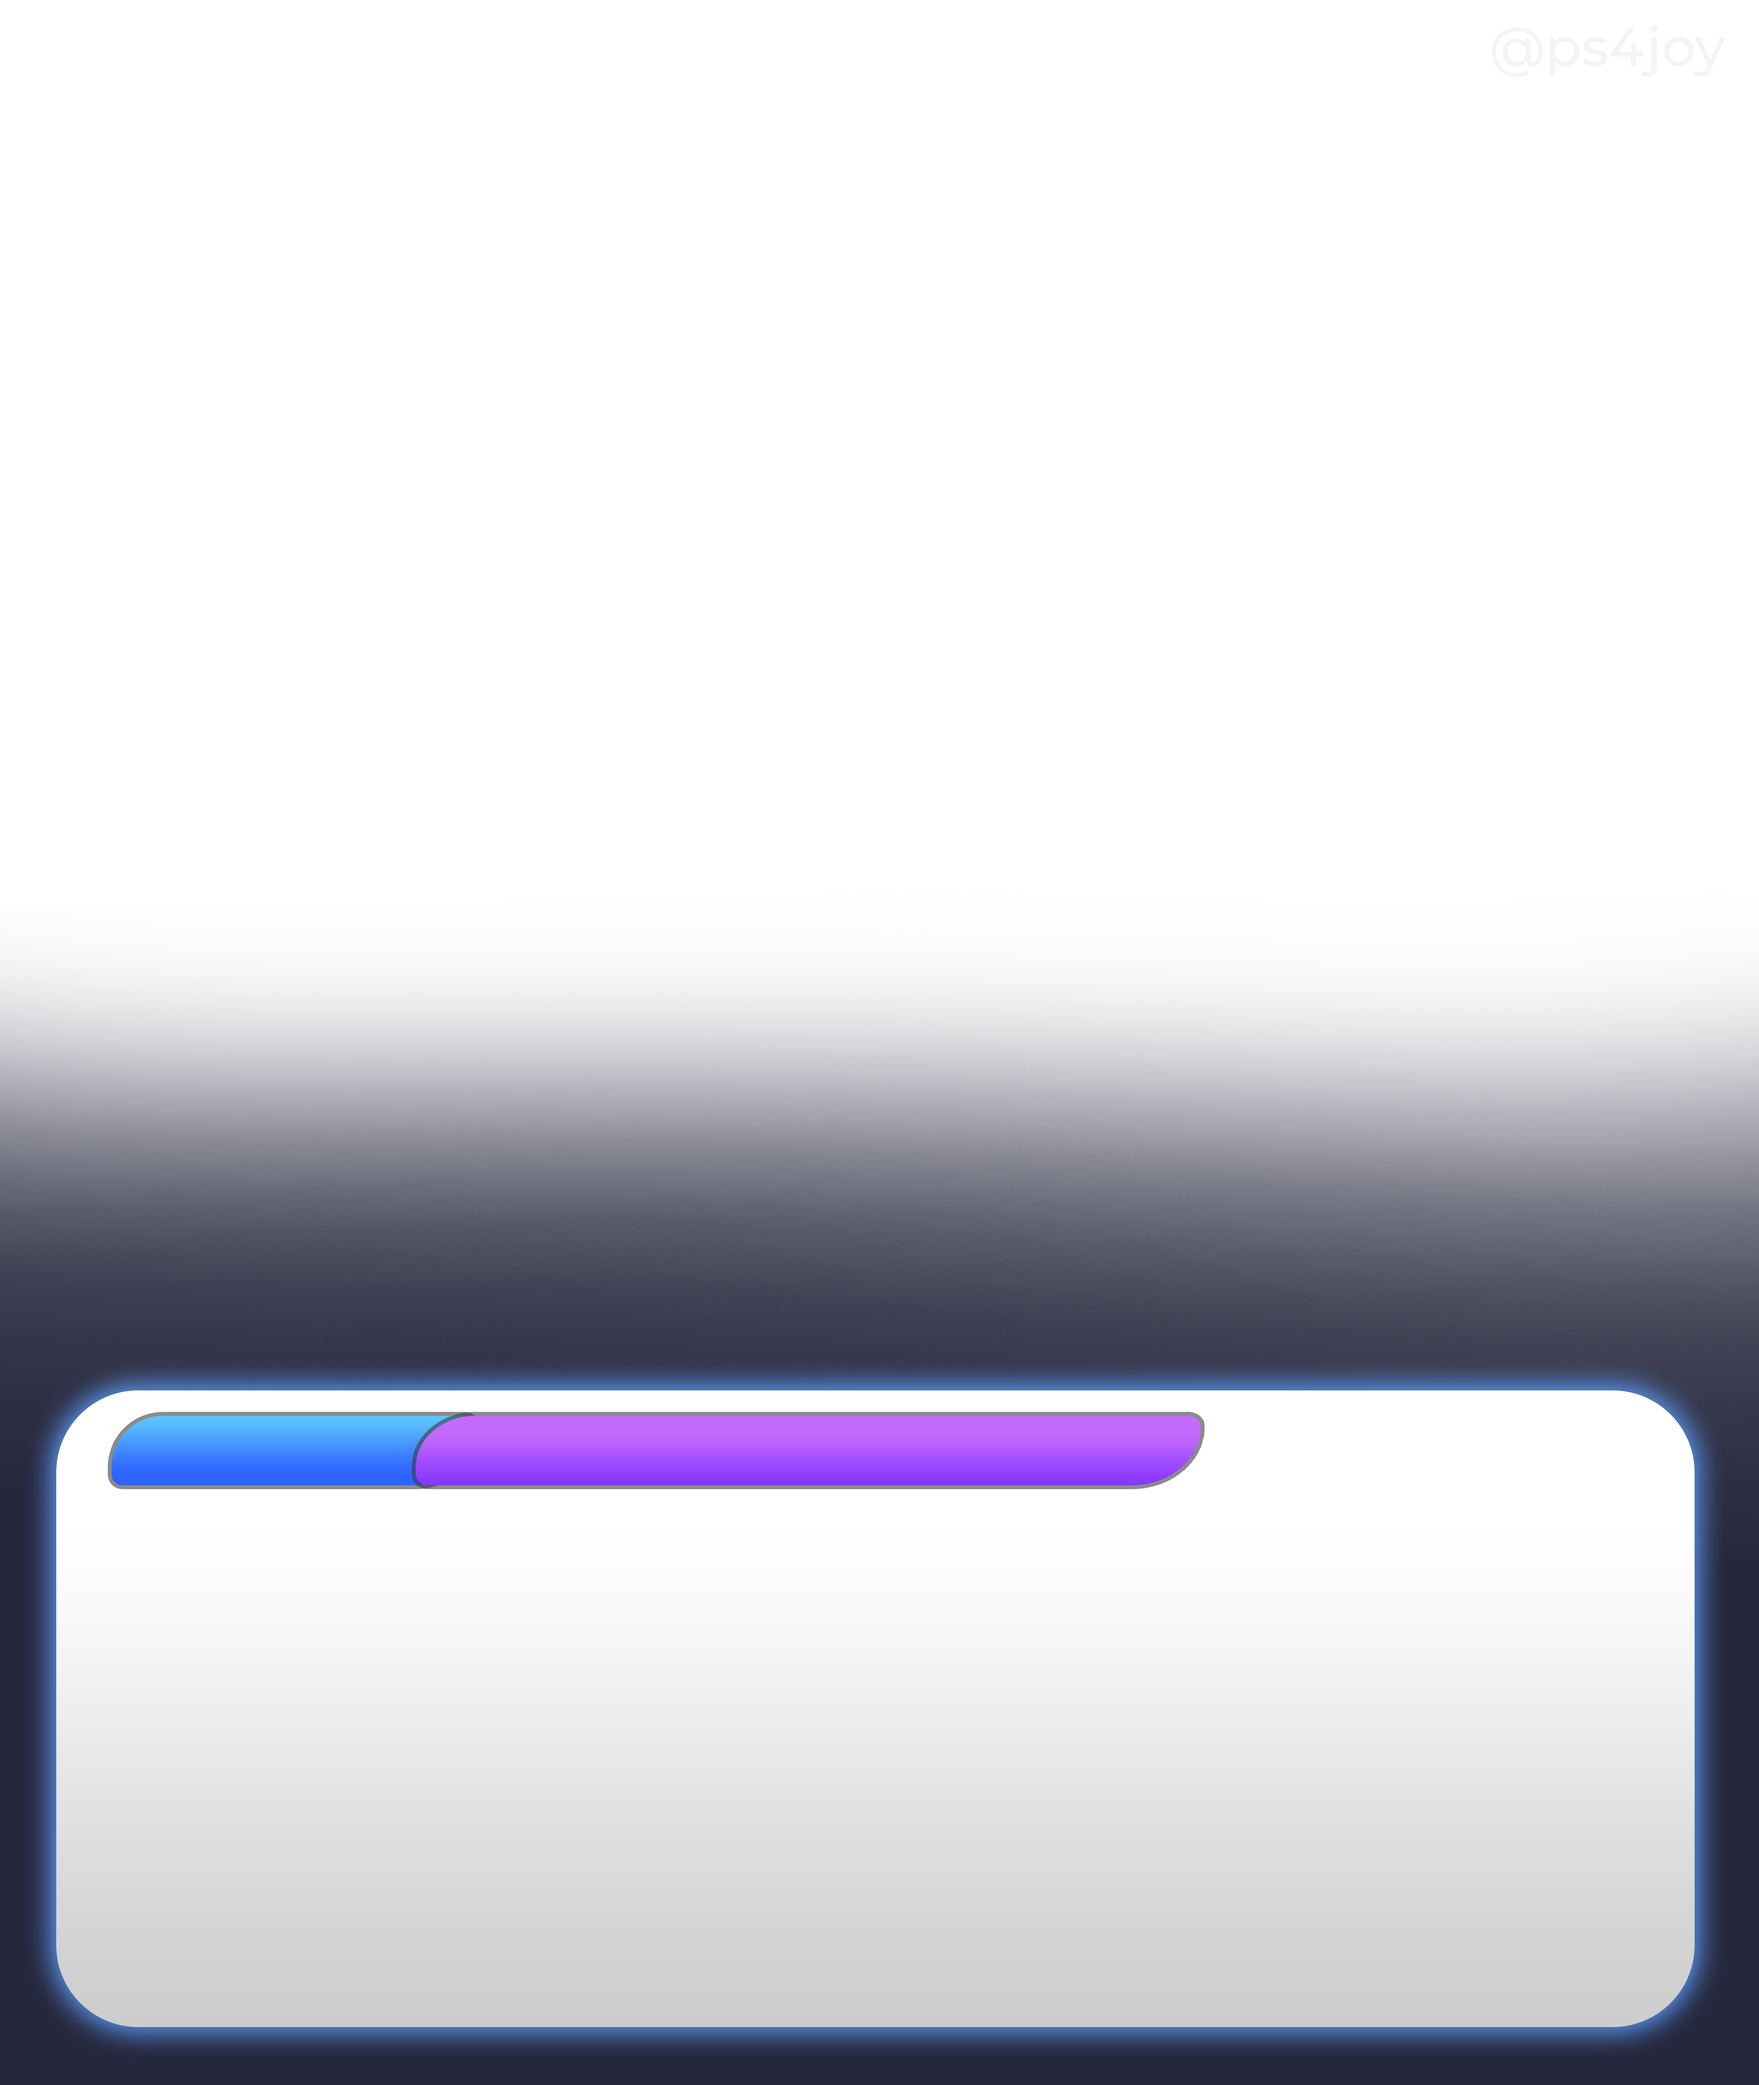
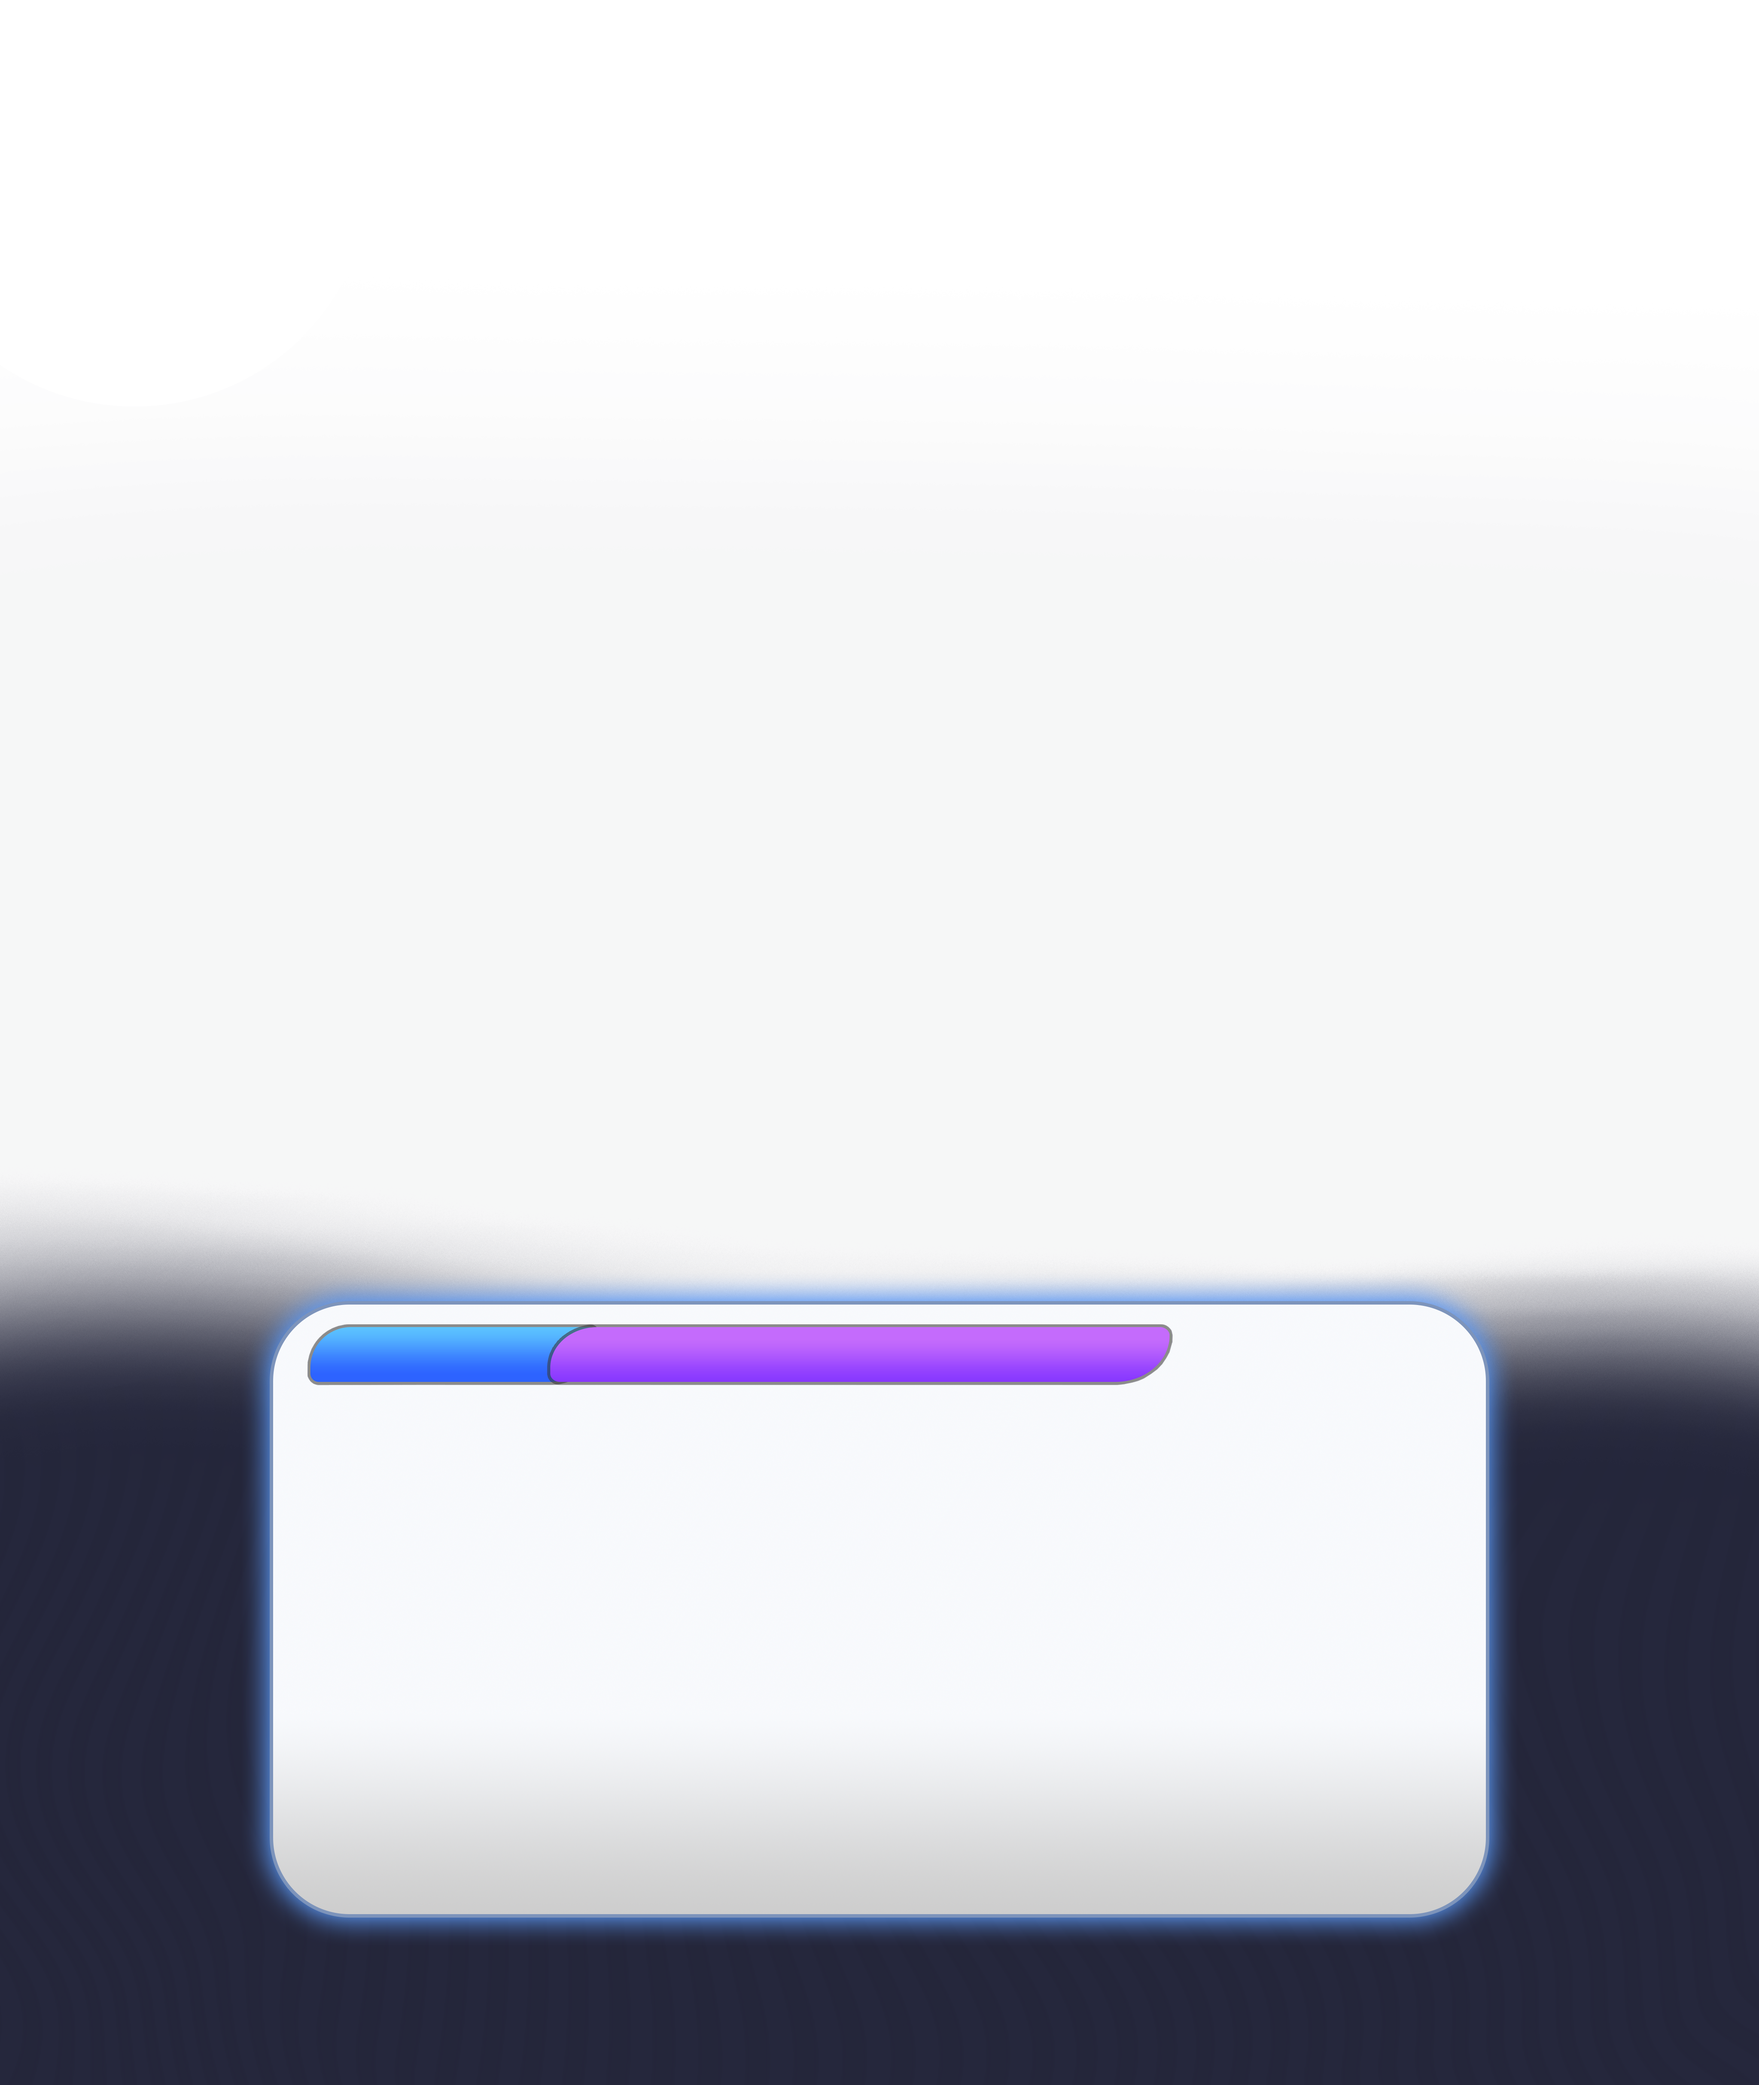
added new template & now the position of a discount square changes dinamically

diff --git a/gui.py b/gui.py
@@ -100,17 +100,26 @@ class Application(tk.Tk):
         discount = self.discount.get()
         discount_end_date = self.discount_end_date.get()
 
+        discount_position_square = [3000, 3620]
+        discount_position_text = [3020, 3810]
+
         # Создаем экземпляр ImageEditor и добавляем текст на изображение
         editor = ImageEditor("newtemplate.png")
 
-        editor.add_text(game_name, (240, 3450), "fonts/Montserrat-Regular.ttf", 250, "black")
+        editor.add_text(game_name, (700, 3250), "fonts/Montserrat-Regular.ttf", 150, "black")
 
         # Используем функцию add_gradient_text для добавления цены с градиентом
-        editor.add_gradient_text(game_price, (230, 3780), "fonts/Montserrat-Bold.ttf", 750)
+        editor.add_gradient_text(game_price, (705, 3600), "fonts/Montserrat-Bold.ttf", 600)
 
-        editor.add_text(russian_language, (1020, 3310), "fonts/Montserrat-Bold.ttf", 110, "white")
-        editor.add_text(platforms, (330, 3300), "fonts/Montserrat-Bold.ttf", 130, "white")
-        editor.add_text(game_version, (240, 3750), "fonts/Montserrat-Bold.ttf", 130, "gray")
+        editor.add_text(russian_language, (1320, 3100), "fonts/Montserrat-Bold.ttf", 85, "white")
+        editor.add_text(platforms, (750, 3090), "fonts/Montserrat-Bold.ttf", 110, "white")
+        editor.add_text(game_version, (705, 3430), "fonts/Montserrat-Bold.ttf", 130, "gray")
+
+        if len(game_price) >= 6:
+            pass
+        else:
+            discount_position_square[0] -= 250
+            discount_position_text[0] -= 250
 
         # Определяем регион игры и загружаем соответствующее изображение
         if "ua-store" in game_link:
@@ -119,17 +128,17 @@ class Application(tk.Tk):
             region_image = Image.open("turkey.png")
 
         # Изменяем размер изображения, сохраняя пропорции
-        max_size = (1080, 1080)
+        max_size = (838, 838)
         region_image.thumbnail(max_size)
 
         # Добавляем изображение региона на итоговое изображение
-        editor.image.paste(region_image, (2630, 3270), region_image)
+        editor.image.paste(region_image, (2570, 3071), region_image)
 
         # Load the discount square image
         discount_square = Image.open("square.png")
 
         # Resize the discount square image (replace 'new_width' and 'new_height' with your desired size)
-        discount_square = discount_square.resize((1050, 1050))
+        discount_square = discount_square.resize((650, 650))
 
         # Open the background image
         background = Image.open(self.image_path.get())
@@ -157,9 +166,9 @@ class Application(tk.Tk):
 
         # Paste the discount square onto the image (replace 'x' and 'y' with your desired coordinates)
         if discount:
-            editor.image.paste(discount_square, (2900, 3700), discount_square)
-            editor.add_text(discount, (2960, 4005), "fonts/Montserrat-Black.ttf", 340, "white")
-            editor.add_text(discount_end_date, (1760, 4540), "fonts/Montserrat-Bold.ttf", 100, "gray")
+            editor.image.paste(discount_square, discount_position_square, discount_square)
+            editor.add_text(discount, discount_position_text, "fonts/Montserrat-Black.ttf", 220, "white")
+            editor.add_text(discount_end_date, (1200, 4300), "fonts/Montserrat-Bold.ttf", 100, "gray")
 
         # Накладываем шаблон на фоновое изображение
         final_image.paste(editor.image.resize((4096, 4857)), (0, 0), editor.image.resize((4096, 4857)))
